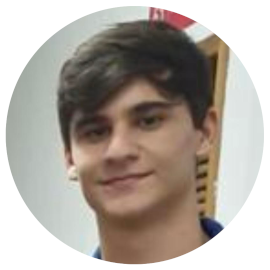
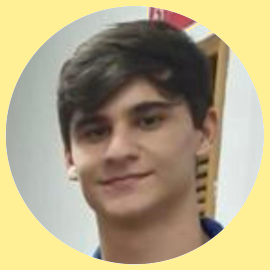
cor de fundo

Changed region(s): [[0.0, 0.0, 1.0, 1.0]]

diff --git a/index.html b/index.html
@@ -10,7 +10,7 @@
 <body>
     <h1>Pedro Fiorio Baldotto</h1>
     <hr>
-    <div class="container">
+    <div class="sobre">
         <div class="texto">
             <h2>Sobre Mim</h2>
             <p>Olá, eu sou Pedro, bem vindo à minha página! Atualmente tenho 19 anos e sou estudante de ciência da computação na <a href="https://www.ufv.br/" target="_blank" rel="external">UFV</a> e morador de Alegre-ES/Viçosa-MG. Além de péssimo em escrever descrições pessoais.</p>
@@ -20,35 +20,41 @@
     </div>
     <hr>
     <br>
-    <div class="outro">
-        <h2>Curiosidades sobre pedroka</h2>
-        <ul>
-            <li>Técnico em informática pelo <abbr title="Instituto Federal do Espírito Santo">IFES</abbr></li>
-            <li>Ex-agente de pesquisa e mapeamento</li>
-            <li>Nascido em Cachoeiro de Itapemirim-ES</li>
-            <li><del>Emo</del></li>
-        </ul>
-        <h2>Comumente confundido com</h2>
-        <ul>
-            <li>Fiori</li>
-            <li>Fiôrio</li>
-            <li>Finório</li>
-            <li>Flório</li>
-            <li>Fiorino</li>
-        </ul>
 
+    <div class="container">
+
+        <div class="curiosidades">
+        <h2>Curiosidades Sobre Mim</h2>
+            <ul>
+                <li>Técnico em informática pelo <abbr title="Instituto Federal do Espírito Santo">IFES</abbr></li>
+                <li>Ex-agente de pesquisa e mapeamento</li>
+                <li>Nascido em Cachoeiro de Itapemirim-ES</li>
+            </ul>
+        </div>
+
+        <br><br><br>
+
+        <div class="github">
+            <img src="imagens/icone-github.png" alt="icone github">
+            <p><a href="https://github.com/PedroFiorio" target="_blank" rel="external">Github</a></p>
+        </div>
+
+        <!--
         <div class="contato">
             <h2>Contato</h2>
-            <div class="github">
-                <img src="imagens/icone-github.png" alt="icone github">
-                <p><a href="https://github.com/PedroFiorio" target="_blank" rel="external">github</a></p>
-            </div>
+
             <div class="email">
                 <img src="imagens/icone-email.png" alt="icone email">
                 <p>pedro.baldotto@ufv.br</p>
             </div>
-        </div>
 
+            <div class="github">
+                <img src="imagens/icone-github.png" alt="icone github">
+                <p><a href="https://github.com/PedroFiorio" target="_blank" rel="external">github</a></p>
+            </div>
+
+        </div>
+        -->
     </div>
 </body>
 </html>

diff --git a/style.css b/style.css
@@ -2,6 +2,7 @@
 
 body {
     font-family: sans-serif;
+    background-color: #FFF096;
 }
 
 h1 {
@@ -12,7 +13,7 @@ h2 {
     text-decoration: underline;
 }
 
-.container {
+.sobre {
     margin: auto;
     width: 70%;
     display: flex;
@@ -20,8 +21,33 @@ h2 {
     align-items: center;
 }
 
+/*.container {
+    margin: auto;
+    width: 90%;
+    display: flex;
+    justify-content: center;
+    align-items: center;
+}*/
+
+.curiosidades h2{
+    text-align: center;
+}
+
+.curiosidades ul{
+    margin-left: auto;
+    margin-right: auto;
+    width: 22%;
+}
+
+.contato h2{
+    text-align: center;
+}
+
 .github {
     display: flex;
+    margin-left: auto;
+    margin-right: auto;
+    width: 8%;
 }
 
 .email {
